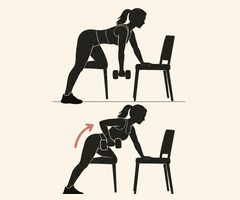
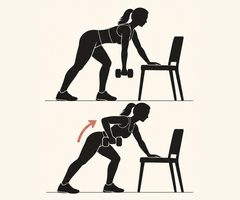
Nytt bilde for roing hjemme uten tegnefeil
Claude-Session: https://claude.ai/code/session_01AskgJg6Kkd8mdVzJkkPLJh

Changed region(s): [[0.175, 0.03, 0.8167, 0.99]]

diff --git a/trening-kvinner-for-40.html b/trening-kvinner-for-40.html
@@ -570,7 +570,7 @@
           <li><a class="thumb-link" href="images/u40-a1-kneboy.jpg" aria-label="Se større bilde: Knebøy"><img class="thumb" src="images/ukeplan-kneboy-senter.jpg" width="120" height="100" loading="lazy" alt="Knebøy på treningssenter: illustrasjon med silhuetter."></a><span>Knebøy eller beinpress</span><span class="sets">8–12 rep</span></li>
           <li><a class="thumb-link" href="images/u40-a2-hipthrust.jpg" aria-label="Se større bilde: Hip thrust og seteløft"><img class="thumb" src="images/ukeplan-hipthrust-senter.jpg" width="120" height="100" loading="lazy" alt="Hip thrust på treningssenter: illustrasjon med silhuetter."></a><span>Hip thrust<span class="how">Med ryggen mot en benk og stang eller manual over hoftene.</span></span><span class="sets">8–12 rep</span></li>
           <li><a class="thumb-link" href="images/u40-a3-bryst.jpg" aria-label="Se større bilde: Brystpress og push-ups"><img class="thumb" src="images/ukeplan-bryst-senter.jpg" width="120" height="100" loading="lazy" alt="Brystpress og push-ups på treningssenter: illustrasjon med silhuetter."></a><span>Brystpress eller push-ups</span><span class="sets">8–12 rep</span></li>
-          <li><a class="thumb-link" href="images/u40-a4-roing.jpg" aria-label="Se større bilde: Roing"><img class="thumb" src="images/ukeplan-roing-senter.jpg" width="120" height="100" loading="lazy" alt="Roing på treningssenter: illustrasjon med silhuetter."></a><span>Sittende roing</span><span class="sets">8–12 rep</span></li>
+          <li><a class="thumb-link" href="images/u40-a4-roing.jpg" aria-label="Se større bilde: Roing"><img class="thumb" src="images/ukeplan-roing-senter.jpg?v=2" width="120" height="100" loading="lazy" alt="Roing på treningssenter: illustrasjon med silhuetter."></a><span>Sittende roing</span><span class="sets">8–12 rep</span></li>
           <li><a class="thumb-link" href="images/u40-a5-skulderpress.jpg" aria-label="Se større bilde: Skulderpress"><img class="thumb" src="images/ukeplan-skulderpress-senter.jpg" width="120" height="100" loading="lazy" alt="Skulderpress på treningssenter: illustrasjon med silhuetter."></a><span>Skulderpress<span class="how">Sittende eller stående, med manualer.</span></span><span class="sets">8–12 rep</span></li>
           <li><a class="thumb-link" href="images/u40-a6-nedtrekk.jpg" aria-label="Se større bilde: Nedtrekk"><img class="thumb" src="images/ukeplan-nedtrekk-senter.jpg" width="120" height="100" loading="lazy" alt="Nedtrekk på treningssenter: illustrasjon med silhuetter."></a><span>Nedtrekk<span class="how">Trekk stanga ned mot øvre del av brystet.</span></span><span class="sets">8–12 rep</span></li>
           <li><a class="thumb-link" href="images/u40-a7-planke.jpg" aria-label="Se større bilde: Planke"><img class="thumb" src="images/ukeplan-planke.jpg" width="120" height="100" loading="lazy" alt="Planke på knærne og med strake bein: illustrasjon med silhuetter."></a><span>Planke<span class="how">Velg nivå: på knærne eller med strake bein. Rett linje fra hode til knær eller hæler.</span></span><span class="sets">20–40 sek</span></li>
@@ -581,7 +581,7 @@
           <li><a class="thumb-link" href="images/u40-b2-markloft.jpg" aria-label="Se større bilde: Rumensk markløft"><img class="thumb" src="images/ukeplan-markloft-senter.jpg" width="120" height="100" loading="lazy" alt="Rumensk markløft på treningssenter: illustrasjon med silhuetter."></a><span>Leg curl eller rumensk markløft<span class="how">Eller en annen øvelse for baksiden av låret.</span></span><span class="sets">8–12 rep</span></li>
           <li><a class="thumb-link" href="images/u40-b3-bryst.jpg" aria-label="Se større bilde: Brystpress og push-ups"><img class="thumb" src="images/ukeplan-bryst-senter.jpg" width="120" height="100" loading="lazy" alt="Brystpress og push-ups på treningssenter: illustrasjon med silhuetter."></a><span>Brystpress med manualer</span><span class="sets">8–12 rep</span></li>
           <li><a class="thumb-link" href="images/u40-b4-nedtrekk.jpg" aria-label="Se større bilde: Nedtrekk"><img class="thumb" src="images/ukeplan-nedtrekk-senter.jpg" width="120" height="100" loading="lazy" alt="Nedtrekk på treningssenter: illustrasjon med silhuetter."></a><span>Nedtrekk</span><span class="sets">8–12 rep</span></li>
-          <li><a class="thumb-link" href="images/u40-b5-roing.jpg" aria-label="Se større bilde: Roing"><img class="thumb" src="images/ukeplan-roing-senter.jpg" width="120" height="100" loading="lazy" alt="Roing på treningssenter: illustrasjon med silhuetter."></a><span>Roing<span class="how">I kabel, apparat eller med manual.</span></span><span class="sets">8–12 rep</span></li>
+          <li><a class="thumb-link" href="images/u40-b5-roing.jpg" aria-label="Se større bilde: Roing"><img class="thumb" src="images/ukeplan-roing-senter.jpg?v=2" width="120" height="100" loading="lazy" alt="Roing på treningssenter: illustrasjon med silhuetter."></a><span>Roing<span class="how">I kabel, apparat eller med manual.</span></span><span class="sets">8–12 rep</span></li>
           <li><a class="thumb-link" href="images/u40-b6-skulderpress.jpg" aria-label="Se større bilde: Skulderpress"><img class="thumb" src="images/ukeplan-skulderpress-senter.jpg" width="120" height="100" loading="lazy" alt="Skulderpress på treningssenter: illustrasjon med silhuetter."></a><span>Sidehev eller skulderpress</span><span class="sets">10–15 rep</span></li>
           <li><a class="thumb-link" href="images/u40-b7-sideplanke.jpg" aria-label="Se større bilde: Sideplanke"><img class="thumb" src="images/ukeplan-sideplanke.jpg" width="120" height="100" loading="lazy" alt="Sideplanke på knærne og med strake bein: illustrasjon med silhuetter."></a><span>Sideplanke<span class="how">Velg nivå: start på knærne. For mer: strake bein, og løft gjerne det øverste beinet.</span></span><span class="sets">20–30 sek per side</span></li>
         </ul>
@@ -596,7 +596,7 @@
           <li><a class="thumb-link" href="images/u40-a1-kneboy.jpg" aria-label="Se større bilde: Knebøy"><img class="thumb" src="images/ukeplan-kneboy-hjemme.jpg?v=2" width="120" height="100" loading="lazy" alt="Knebøy hjemme: illustrasjon med silhuetter."></a><span>Knebøy med manual eller kettlebell<span class="how">Hold vekten foran brystet (goblet-knebøy).</span></span><span class="sets">8–12 rep</span></li>
           <li><a class="thumb-link" href="images/u40-a2-hipthrust.jpg" aria-label="Se større bilde: Hip thrust og seteløft"><img class="thumb" src="images/ukeplan-hipthrust-hjemme.jpg" width="120" height="100" loading="lazy" alt="Seteløft hjemme: illustrasjon med silhuetter."></a><span>Hoftehev eller seteløft<span class="how">På gulvet, eller med skuldrene mot sofaen. Legg en manual på hoftene for mer.</span></span><span class="sets">10–15 rep</span></li>
           <li><a class="thumb-link" href="images/u40-a3-bryst.jpg" aria-label="Se større bilde: Brystpress og push-ups"><img class="thumb" src="images/ukeplan-bryst-hjemme.jpg" width="120" height="100" loading="lazy" alt="Brystpress og push-ups hjemme: illustrasjon med silhuetter."></a><span>Push-ups<span class="how">Mot kjøkkenbenken, så på knærne, så på gulvet.</span></span><span class="sets">8–12 rep</span></li>
-          <li><a class="thumb-link" href="images/u40-a4-roing.jpg" aria-label="Se større bilde: Roing"><img class="thumb" src="images/ukeplan-roing-hjemme.jpg" width="120" height="100" loading="lazy" alt="Roing hjemme: illustrasjon med silhuetter."></a><span>Roing med manual eller strikk<span class="how">Én arm av gangen med støtte på en stol, eller strikk festet i døra.</span></span><span class="sets">8–12 rep</span></li>
+          <li><a class="thumb-link" href="images/u40-a4-roing.jpg" aria-label="Se større bilde: Roing"><img class="thumb" src="images/ukeplan-roing-hjemme.jpg?v=2" width="120" height="100" loading="lazy" alt="Roing hjemme: illustrasjon med silhuetter."></a><span>Roing med manual eller strikk<span class="how">Én arm av gangen med støtte på en stol, eller strikk festet i døra.</span></span><span class="sets">8–12 rep</span></li>
           <li><a class="thumb-link" href="images/u40-a5-skulderpress.jpg" aria-label="Se større bilde: Skulderpress"><img class="thumb" src="images/ukeplan-skulderpress-hjemme.jpg" width="120" height="100" loading="lazy" alt="Skulderpress hjemme: illustrasjon med silhuetter."></a><span>Skulderpress med manualer eller strikk</span><span class="sets">8–12 rep</span></li>
           <li><a class="thumb-link" href="images/u40-a6-nedtrekk.jpg" aria-label="Se større bilde: Nedtrekk"><img class="thumb" src="images/ukeplan-nedtrekk-hjemme.jpg" width="120" height="100" loading="lazy" alt="Nedtrekk med strikk hjemme: illustrasjon med silhuetter."></a><span>Nedtrekk med strikk<span class="how">Strikket festet øverst i døra.</span></span><span class="sets">10–15 rep</span></li>
           <li><a class="thumb-link" href="images/u40-a7-planke.jpg" aria-label="Se større bilde: Planke"><img class="thumb" src="images/ukeplan-planke.jpg" width="120" height="100" loading="lazy" alt="Planke på knærne og med strake bein: illustrasjon med silhuetter."></a><span>Planke<span class="how">Velg nivå: på knærne eller med strake bein. Rett linje fra hode til knær eller hæler.</span></span><span class="sets">20–40 sek</span></li>
@@ -607,7 +607,7 @@
           <li><a class="thumb-link" href="images/u40-b2-markloft.jpg" aria-label="Se større bilde: Rumensk markløft"><img class="thumb" src="images/ukeplan-markloft-hjemme.jpg" width="120" height="100" loading="lazy" alt="Rumensk markløft hjemme: illustrasjon med silhuetter."></a><span>Rumensk markløft med manualer<span class="how">For mer: markløft på ett bein.</span></span><span class="sets">8–12 rep</span></li>
           <li><a class="thumb-link" href="images/u40-b3-bryst.jpg" aria-label="Se større bilde: Brystpress og push-ups"><img class="thumb" src="images/ukeplan-bryst-hjemme.jpg" width="120" height="100" loading="lazy" alt="Brystpress og push-ups hjemme: illustrasjon med silhuetter."></a><span>Brystpress med manualer<span class="how">Liggende på gulvet eller en benk. Eller push-ups.</span></span><span class="sets">8–12 rep</span></li>
           <li><a class="thumb-link" href="images/u40-b4-nedtrekk.jpg" aria-label="Se større bilde: Nedtrekk"><img class="thumb" src="images/ukeplan-nedtrekk-hjemme.jpg" width="120" height="100" loading="lazy" alt="Nedtrekk med strikk hjemme: illustrasjon med silhuetter."></a><span>Nedtrekk med strikk</span><span class="sets">10–15 rep</span></li>
-          <li><a class="thumb-link" href="images/u40-b5-roing.jpg" aria-label="Se større bilde: Roing"><img class="thumb" src="images/ukeplan-roing-hjemme.jpg" width="120" height="100" loading="lazy" alt="Roing hjemme: illustrasjon med silhuetter."></a><span>Roing med manual eller strikk</span><span class="sets">8–12 rep</span></li>
+          <li><a class="thumb-link" href="images/u40-b5-roing.jpg" aria-label="Se større bilde: Roing"><img class="thumb" src="images/ukeplan-roing-hjemme.jpg?v=2" width="120" height="100" loading="lazy" alt="Roing hjemme: illustrasjon med silhuetter."></a><span>Roing med manual eller strikk</span><span class="sets">8–12 rep</span></li>
           <li><a class="thumb-link" href="images/u40-b6-skulderpress.jpg" aria-label="Se større bilde: Skulderpress"><img class="thumb" src="images/ukeplan-skulderpress-hjemme.jpg" width="120" height="100" loading="lazy" alt="Skulderpress hjemme: illustrasjon med silhuetter."></a><span>Sidehev eller skulderpress<span class="how">Med lette manualer eller strikk.</span></span><span class="sets">10–15 rep</span></li>
           <li><a class="thumb-link" href="images/u40-b7-sideplanke.jpg" aria-label="Se større bilde: Sideplanke"><img class="thumb" src="images/ukeplan-sideplanke.jpg" width="120" height="100" loading="lazy" alt="Sideplanke på knærne og med strake bein: illustrasjon med silhuetter."></a><span>Sideplanke<span class="how">Velg nivå: start på knærne. For mer: strake bein, og løft gjerne det øverste beinet.</span></span><span class="sets">20–30 sek per side</span></li>
         </ul>

diff --git a/ukeplan-kvinne-40.html b/ukeplan-kvinne-40.html
@@ -478,7 +478,7 @@
       <ul class="exercises">
         <li><a class="thumb-link" href="images/ukeplan-kneboy-stor.jpg?v=2" aria-label="Se større bilde: Knebøy"><img class="thumb" src="images/ukeplan-kneboy-senter.jpg" width="120" height="100" loading="lazy" alt="Knebøy på treningssenter: illustrasjon med silhuetter."></a><span>Knebøy eller beinpress</span><span class="sets">3 × 6–8</span></li>
         <li><a class="thumb-link" href="images/ukeplan-markloft-stor.jpg" aria-label="Se større bilde: Rumensk markløft"><img class="thumb" src="images/ukeplan-markloft-senter.jpg" width="120" height="100" loading="lazy" alt="Rumensk markløft på treningssenter: illustrasjon med silhuetter."></a><span>Rumensk markløft eller annen hofteøvelse</span><span class="sets">3 × 6–8</span></li>
-        <li><a class="thumb-link" href="images/ukeplan-roing-stor.jpg" aria-label="Se større bilde: Roing"><img class="thumb" src="images/ukeplan-roing-senter.jpg" width="120" height="100" loading="lazy" alt="Roing på treningssenter: illustrasjon med silhuetter."></a><span>Roing eller nedtrekk</span><span class="sets">3 × 6–8</span></li>
+        <li><a class="thumb-link" href="images/ukeplan-roing-stor.jpg?v=2" aria-label="Se større bilde: Roing"><img class="thumb" src="images/ukeplan-roing-senter.jpg?v=2" width="120" height="100" loading="lazy" alt="Roing på treningssenter: illustrasjon med silhuetter."></a><span>Roing eller nedtrekk</span><span class="sets">3 × 6–8</span></li>
         <li><a class="thumb-link" href="images/ukeplan-bryst-stor.jpg" aria-label="Se større bilde: Brystpress og push-ups"><img class="thumb" src="images/ukeplan-bryst-senter.jpg" width="120" height="100" loading="lazy" alt="Brystpress og push-ups på treningssenter: illustrasjon med silhuetter."></a><span>Brystpress eller push-ups</span><span class="sets">3 × 6–8</span></li>
         <li><a class="thumb-link" href="images/ukeplan-skulderpress-stor.jpg" aria-label="Se større bilde: Skulderpress"><img class="thumb" src="images/ukeplan-skulderpress-senter.jpg" width="120" height="100" loading="lazy" alt="Skulderpress på treningssenter: illustrasjon med silhuetter."></a><span>Skulderpress</span><span class="sets">2–3 × 6–8</span></li>
         <li><a class="thumb-link" href="images/ukeplan-enbens-stor.jpg" aria-label="Se større bilde: Enbensøvelse"><img class="thumb" src="images/ukeplan-enbens-senter.jpg" width="120" height="100" loading="lazy" alt="Enbensøvelse på treningssenter: illustrasjon med silhuetter."></a><span>Enbensøvelse, for eksempel utfall eller step-up</span><span class="sets">2 × 6–8 per bein</span></li>
@@ -494,7 +494,7 @@
       <ul class="exercises">
         <li><a class="thumb-link" href="images/ukeplan-kneboy-stor.jpg?v=2" aria-label="Se større bilde: Knebøy"><img class="thumb" src="images/ukeplan-kneboy-hjemme.jpg?v=2" width="120" height="100" loading="lazy" alt="Knebøy hjemme: illustrasjon med silhuetter."></a><span>Knebøy med manual eller kettlebell<span class="how">Hold vekten foran brystet (goblet-knebøy). For mer: bulgarsk utfall med bakre fot på en stol.</span></span><span class="sets">3 × 6–8</span></li>
         <li><a class="thumb-link" href="images/ukeplan-markloft-stor.jpg" aria-label="Se større bilde: Rumensk markløft"><img class="thumb" src="images/ukeplan-markloft-hjemme.jpg" width="120" height="100" loading="lazy" alt="Rumensk markløft hjemme: illustrasjon med silhuetter."></a><span>Rumensk markløft med manualer<span class="how">Eller seteløft med skuldrene mot sofaen og vekt på hoftene. For mer: markløft på ett bein.</span></span><span class="sets">3 × 6–8</span></li>
-        <li><a class="thumb-link" href="images/ukeplan-roing-stor.jpg" aria-label="Se større bilde: Roing"><img class="thumb" src="images/ukeplan-roing-hjemme.jpg" width="120" height="100" loading="lazy" alt="Roing hjemme: illustrasjon med silhuetter."></a><span>Roing med manual eller strikk<span class="how">Én arm av gangen med støtte på en stol, eller strikk festet i døra.</span></span><span class="sets">3 × 6–8</span></li>
+        <li><a class="thumb-link" href="images/ukeplan-roing-stor.jpg?v=2" aria-label="Se større bilde: Roing"><img class="thumb" src="images/ukeplan-roing-hjemme.jpg?v=2" width="120" height="100" loading="lazy" alt="Roing hjemme: illustrasjon med silhuetter."></a><span>Roing med manual eller strikk<span class="how">Én arm av gangen med støtte på en stol, eller strikk festet i døra.</span></span><span class="sets">3 × 6–8</span></li>
         <li><a class="thumb-link" href="images/ukeplan-bryst-stor.jpg" aria-label="Se større bilde: Brystpress og push-ups"><img class="thumb" src="images/ukeplan-bryst-hjemme.jpg" width="120" height="100" loading="lazy" alt="Brystpress og push-ups hjemme: illustrasjon med silhuetter."></a><span>Push-ups<span class="how">Mot kjøkkenbenken, så på knærne, så på gulvet. Eller brystpress med manualer liggende på gulvet.</span></span><span class="sets">3 × 6–8</span></li>
         <li><a class="thumb-link" href="images/ukeplan-skulderpress-stor.jpg" aria-label="Se større bilde: Skulderpress"><img class="thumb" src="images/ukeplan-skulderpress-hjemme.jpg" width="120" height="100" loading="lazy" alt="Skulderpress hjemme: illustrasjon med silhuetter."></a><span>Skulderpress med manualer eller strikk<span class="how">Sittende eller stående.</span></span><span class="sets">2–3 × 6–8</span></li>
         <li><a class="thumb-link" href="images/ukeplan-enbens-stor.jpg" aria-label="Se større bilde: Enbensøvelse"><img class="thumb" src="images/ukeplan-enbens-hjemme.jpg" width="120" height="100" loading="lazy" alt="Enbensøvelse hjemme: illustrasjon med silhuetter."></a><span>Step-up på stol<span class="how">Gå opp på en stødig stol eller et trappetrinn med ett bein, og ned igjen kontrollert. Hold gjerne manualer i hendene for mer.</span></span><span class="sets">2 × 6–8 per bein</span></li>

diff --git a/ovelsesbank.html b/ovelsesbank.html
@@ -583,7 +583,7 @@
         <div class="about-body">
           <p class="muscles">Øvre del av ryggen</p>
           <ul class="exercises">
-          <li><a class="thumb-link v-gym k-kvinne" href="images/ukeplan-roing-stor.jpg" aria-label="Se større bilde: Roing på treningssenter"><img class="thumb" src="images/ukeplan-roing-senter.jpg" width="120" height="100" loading="lazy" alt="Roing på treningssenter: illustrasjon med silhuetter."></a><a class="thumb-link v-gym k-mann" href="images/ukeplan-mann-roing-stor.jpg" aria-label="Se større bilde: Roing på treningssenter"><img class="thumb" src="images/ukeplan-mann-roing-senter.jpg" width="120" height="100" loading="lazy" alt="Roing på treningssenter: illustrasjon med silhuetter."></a><a class="thumb-link v-home k-kvinne" href="images/ukeplan-roing-stor.jpg" aria-label="Se større bilde: Roing hjemme"><img class="thumb" src="images/ukeplan-roing-hjemme.jpg" width="120" height="100" loading="lazy" alt="Roing hjemme: illustrasjon med silhuetter."></a><a class="thumb-link v-home k-mann" href="images/ukeplan-mann-roing-stor.jpg" aria-label="Se større bilde: Roing hjemme"><img class="thumb" src="images/ukeplan-mann-roing-hjemme.jpg" width="120" height="100" loading="lazy" alt="Roing hjemme: illustrasjon med silhuetter."></a><span class="v-gym">Sittende roing i kabel<span class="how">Trekk albuene bakover og skulderbladene mot hverandre.</span></span><span class="v-home">Roing med manual<span class="how">Én arm av gangen med støtte på en stol.</span></span></li>
+          <li><a class="thumb-link v-gym k-kvinne" href="images/ukeplan-roing-stor.jpg?v=2" aria-label="Se større bilde: Roing på treningssenter"><img class="thumb" src="images/ukeplan-roing-senter.jpg?v=2" width="120" height="100" loading="lazy" alt="Roing på treningssenter: illustrasjon med silhuetter."></a><a class="thumb-link v-gym k-mann" href="images/ukeplan-mann-roing-stor.jpg" aria-label="Se større bilde: Roing på treningssenter"><img class="thumb" src="images/ukeplan-mann-roing-senter.jpg" width="120" height="100" loading="lazy" alt="Roing på treningssenter: illustrasjon med silhuetter."></a><a class="thumb-link v-home k-kvinne" href="images/ukeplan-roing-stor.jpg?v=2" aria-label="Se større bilde: Roing hjemme"><img class="thumb" src="images/ukeplan-roing-hjemme.jpg?v=2" width="120" height="100" loading="lazy" alt="Roing hjemme: illustrasjon med silhuetter."></a><a class="thumb-link v-home k-mann" href="images/ukeplan-mann-roing-stor.jpg" aria-label="Se større bilde: Roing hjemme"><img class="thumb" src="images/ukeplan-mann-roing-hjemme.jpg" width="120" height="100" loading="lazy" alt="Roing hjemme: illustrasjon med silhuetter."></a><span class="v-gym">Sittende roing i kabel<span class="how">Trekk albuene bakover og skulderbladene mot hverandre.</span></span><span class="v-home">Roing med manual<span class="how">Én arm av gangen med støtte på en stol.</span></span></li>
           <li><a class="thumb-link v-gym k-kvinne" href="images/bank-foroverroing-k-stor.jpg" aria-label="Se større bilde: Foroverbøyd roing og roing med strikk på treningssenter"><img class="thumb" src="images/bank-foroverroing-k-senter.jpg" width="120" height="100" loading="lazy" alt="Foroverbøyd roing og roing med strikk på treningssenter: illustrasjon med silhuetter."></a><a class="thumb-link v-gym k-mann" href="images/bank-foroverroing-stor.jpg" aria-label="Se større bilde: Foroverbøyd roing og roing med strikk på treningssenter"><img class="thumb" src="images/bank-foroverroing-senter.jpg" width="120" height="100" loading="lazy" alt="Foroverbøyd roing og roing med strikk på treningssenter: illustrasjon med silhuetter."></a><a class="thumb-link v-home k-kvinne" href="images/bank-foroverroing-k-stor.jpg" aria-label="Se større bilde: Foroverbøyd roing og roing med strikk hjemme"><img class="thumb" src="images/bank-foroverroing-k-hjemme.jpg" width="120" height="100" loading="lazy" alt="Foroverbøyd roing og roing med strikk hjemme: illustrasjon med silhuetter."></a><a class="thumb-link v-home k-mann" href="images/bank-foroverroing-stor.jpg" aria-label="Se større bilde: Foroverbøyd roing og roing med strikk hjemme"><img class="thumb" src="images/bank-foroverroing-hjemme.jpg" width="120" height="100" loading="lazy" alt="Foroverbøyd roing og roing med strikk hjemme: illustrasjon med silhuetter."></a><span class="v-gym">Foroverbøyd roing med stang<span class="how">Bøy i hoftene med rett rygg, og trekk stanga mot navlen.</span></span><span class="v-home">Roing med strikk<span class="how">Sitt på gulvet med strikket rundt føttene, eller fest det i døra.</span></span></li>
           </ul>
         </div>
